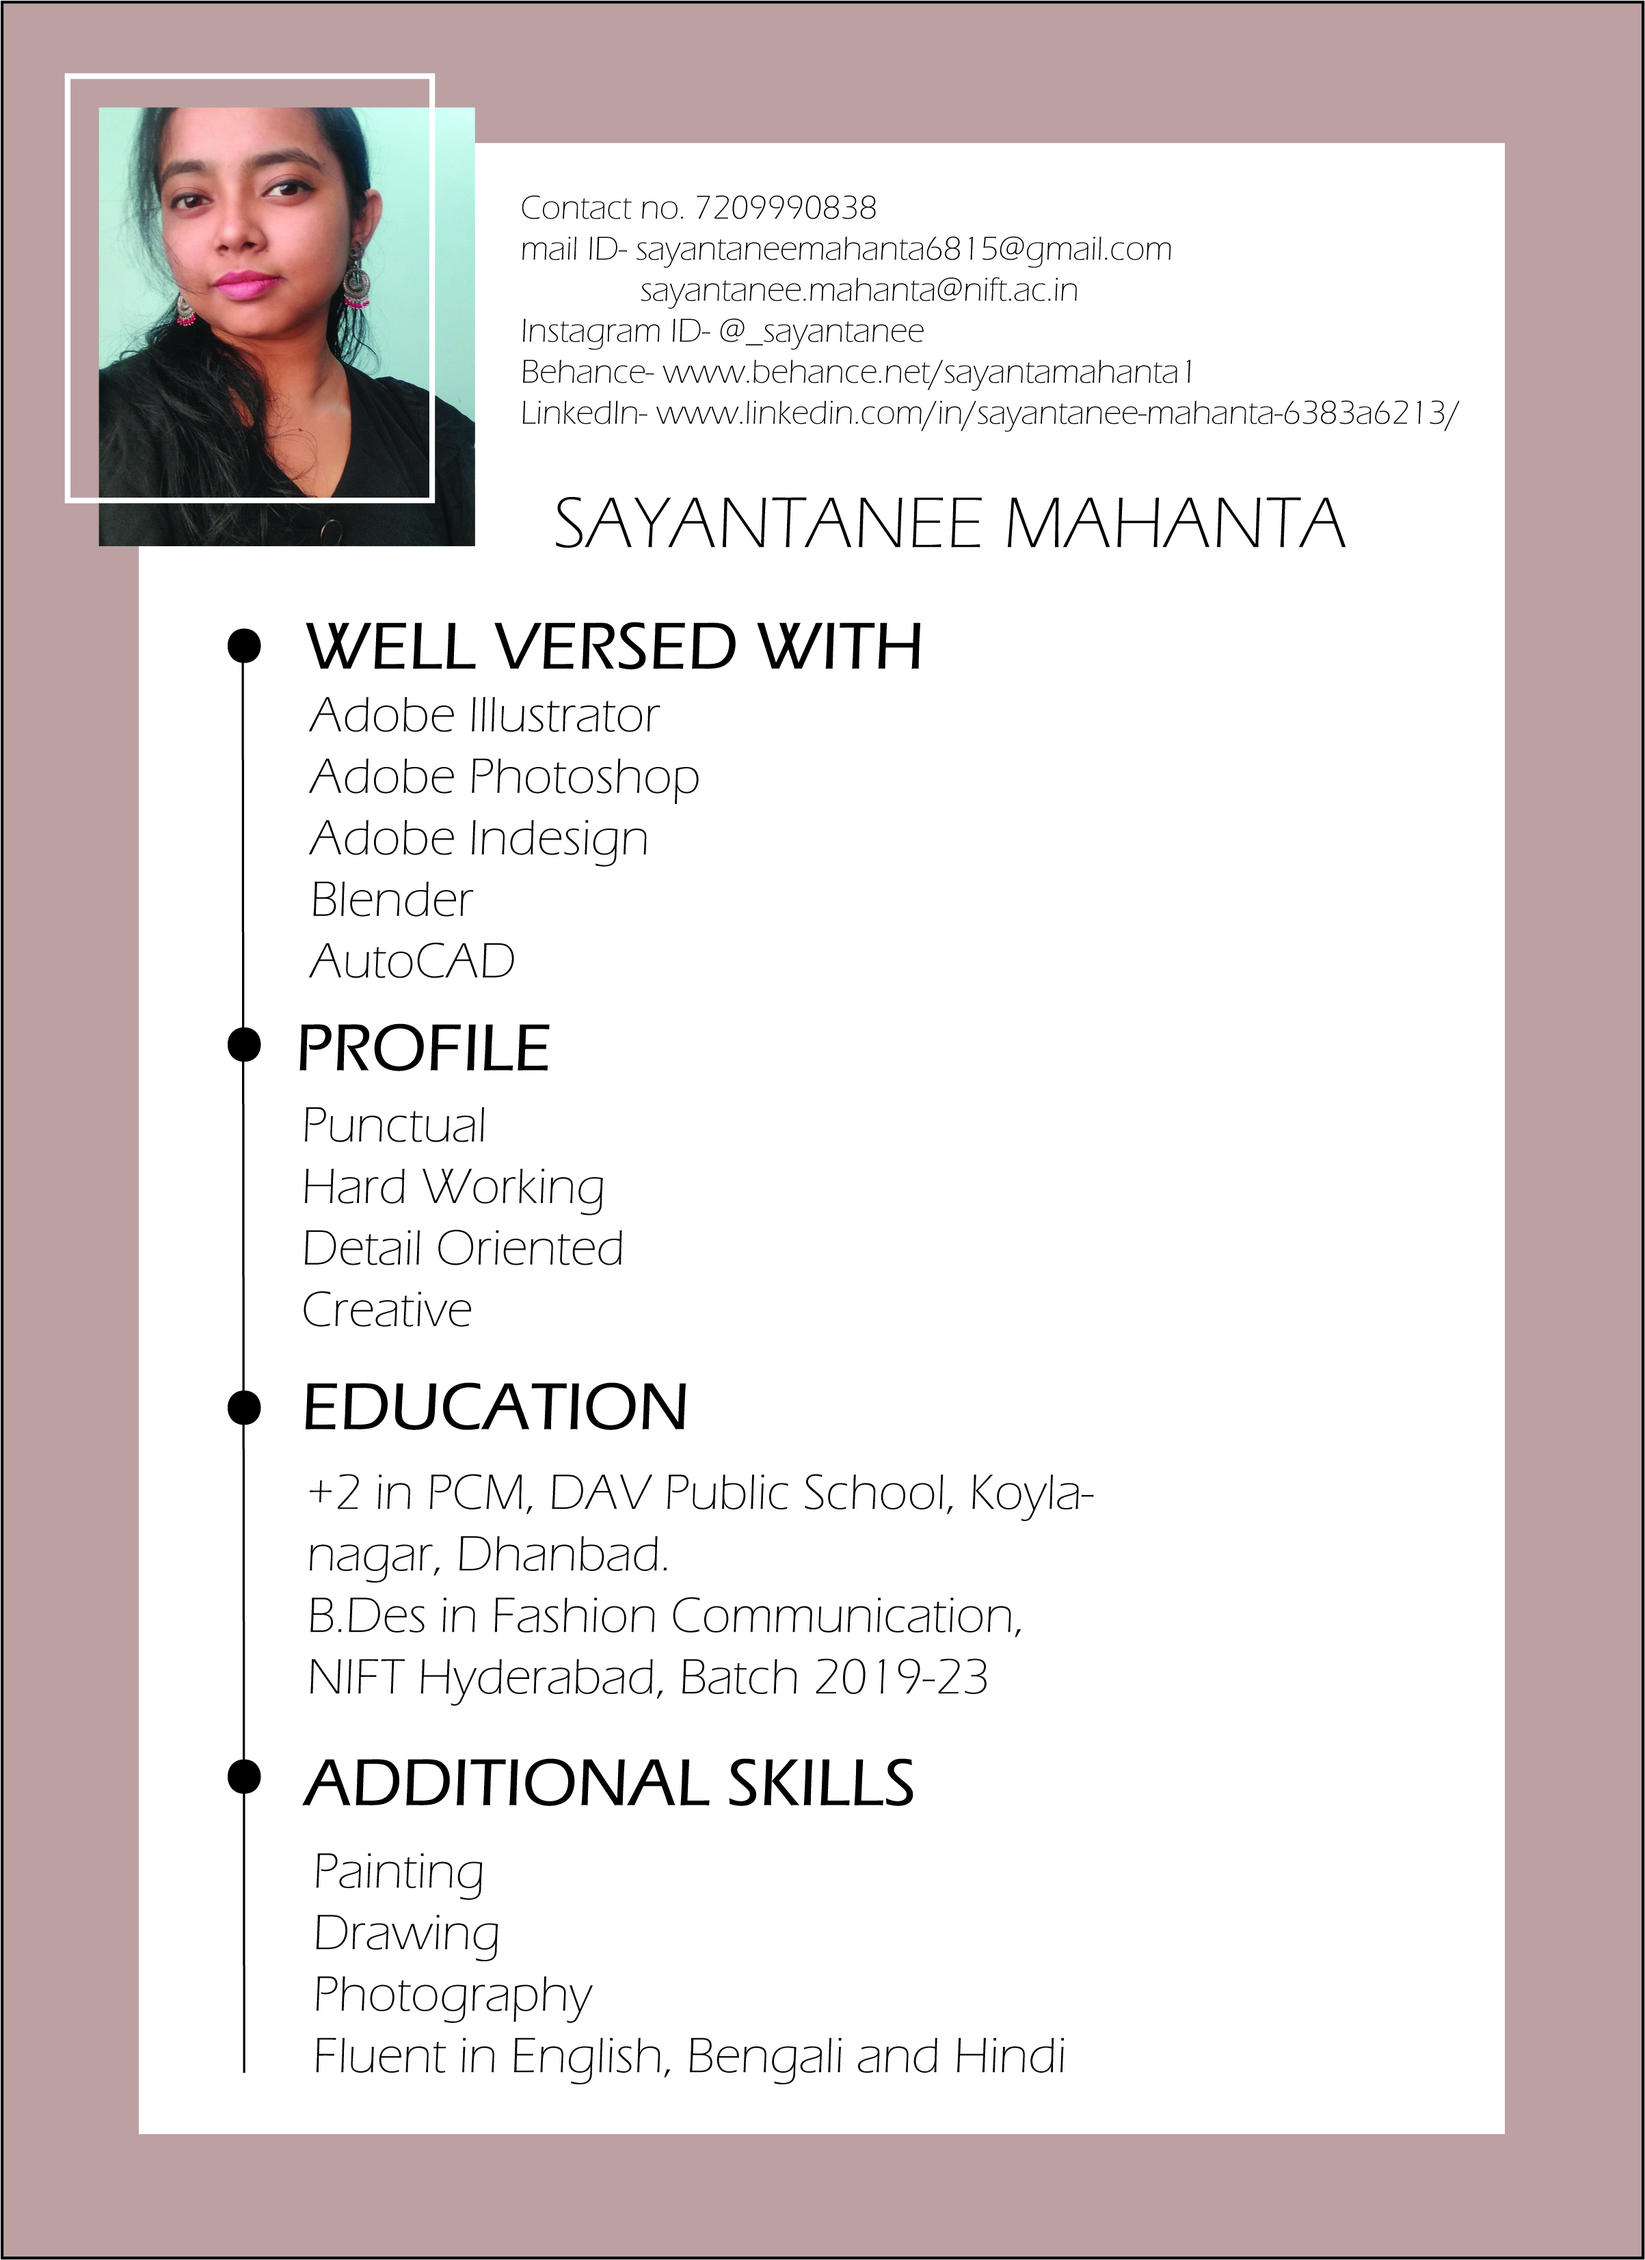
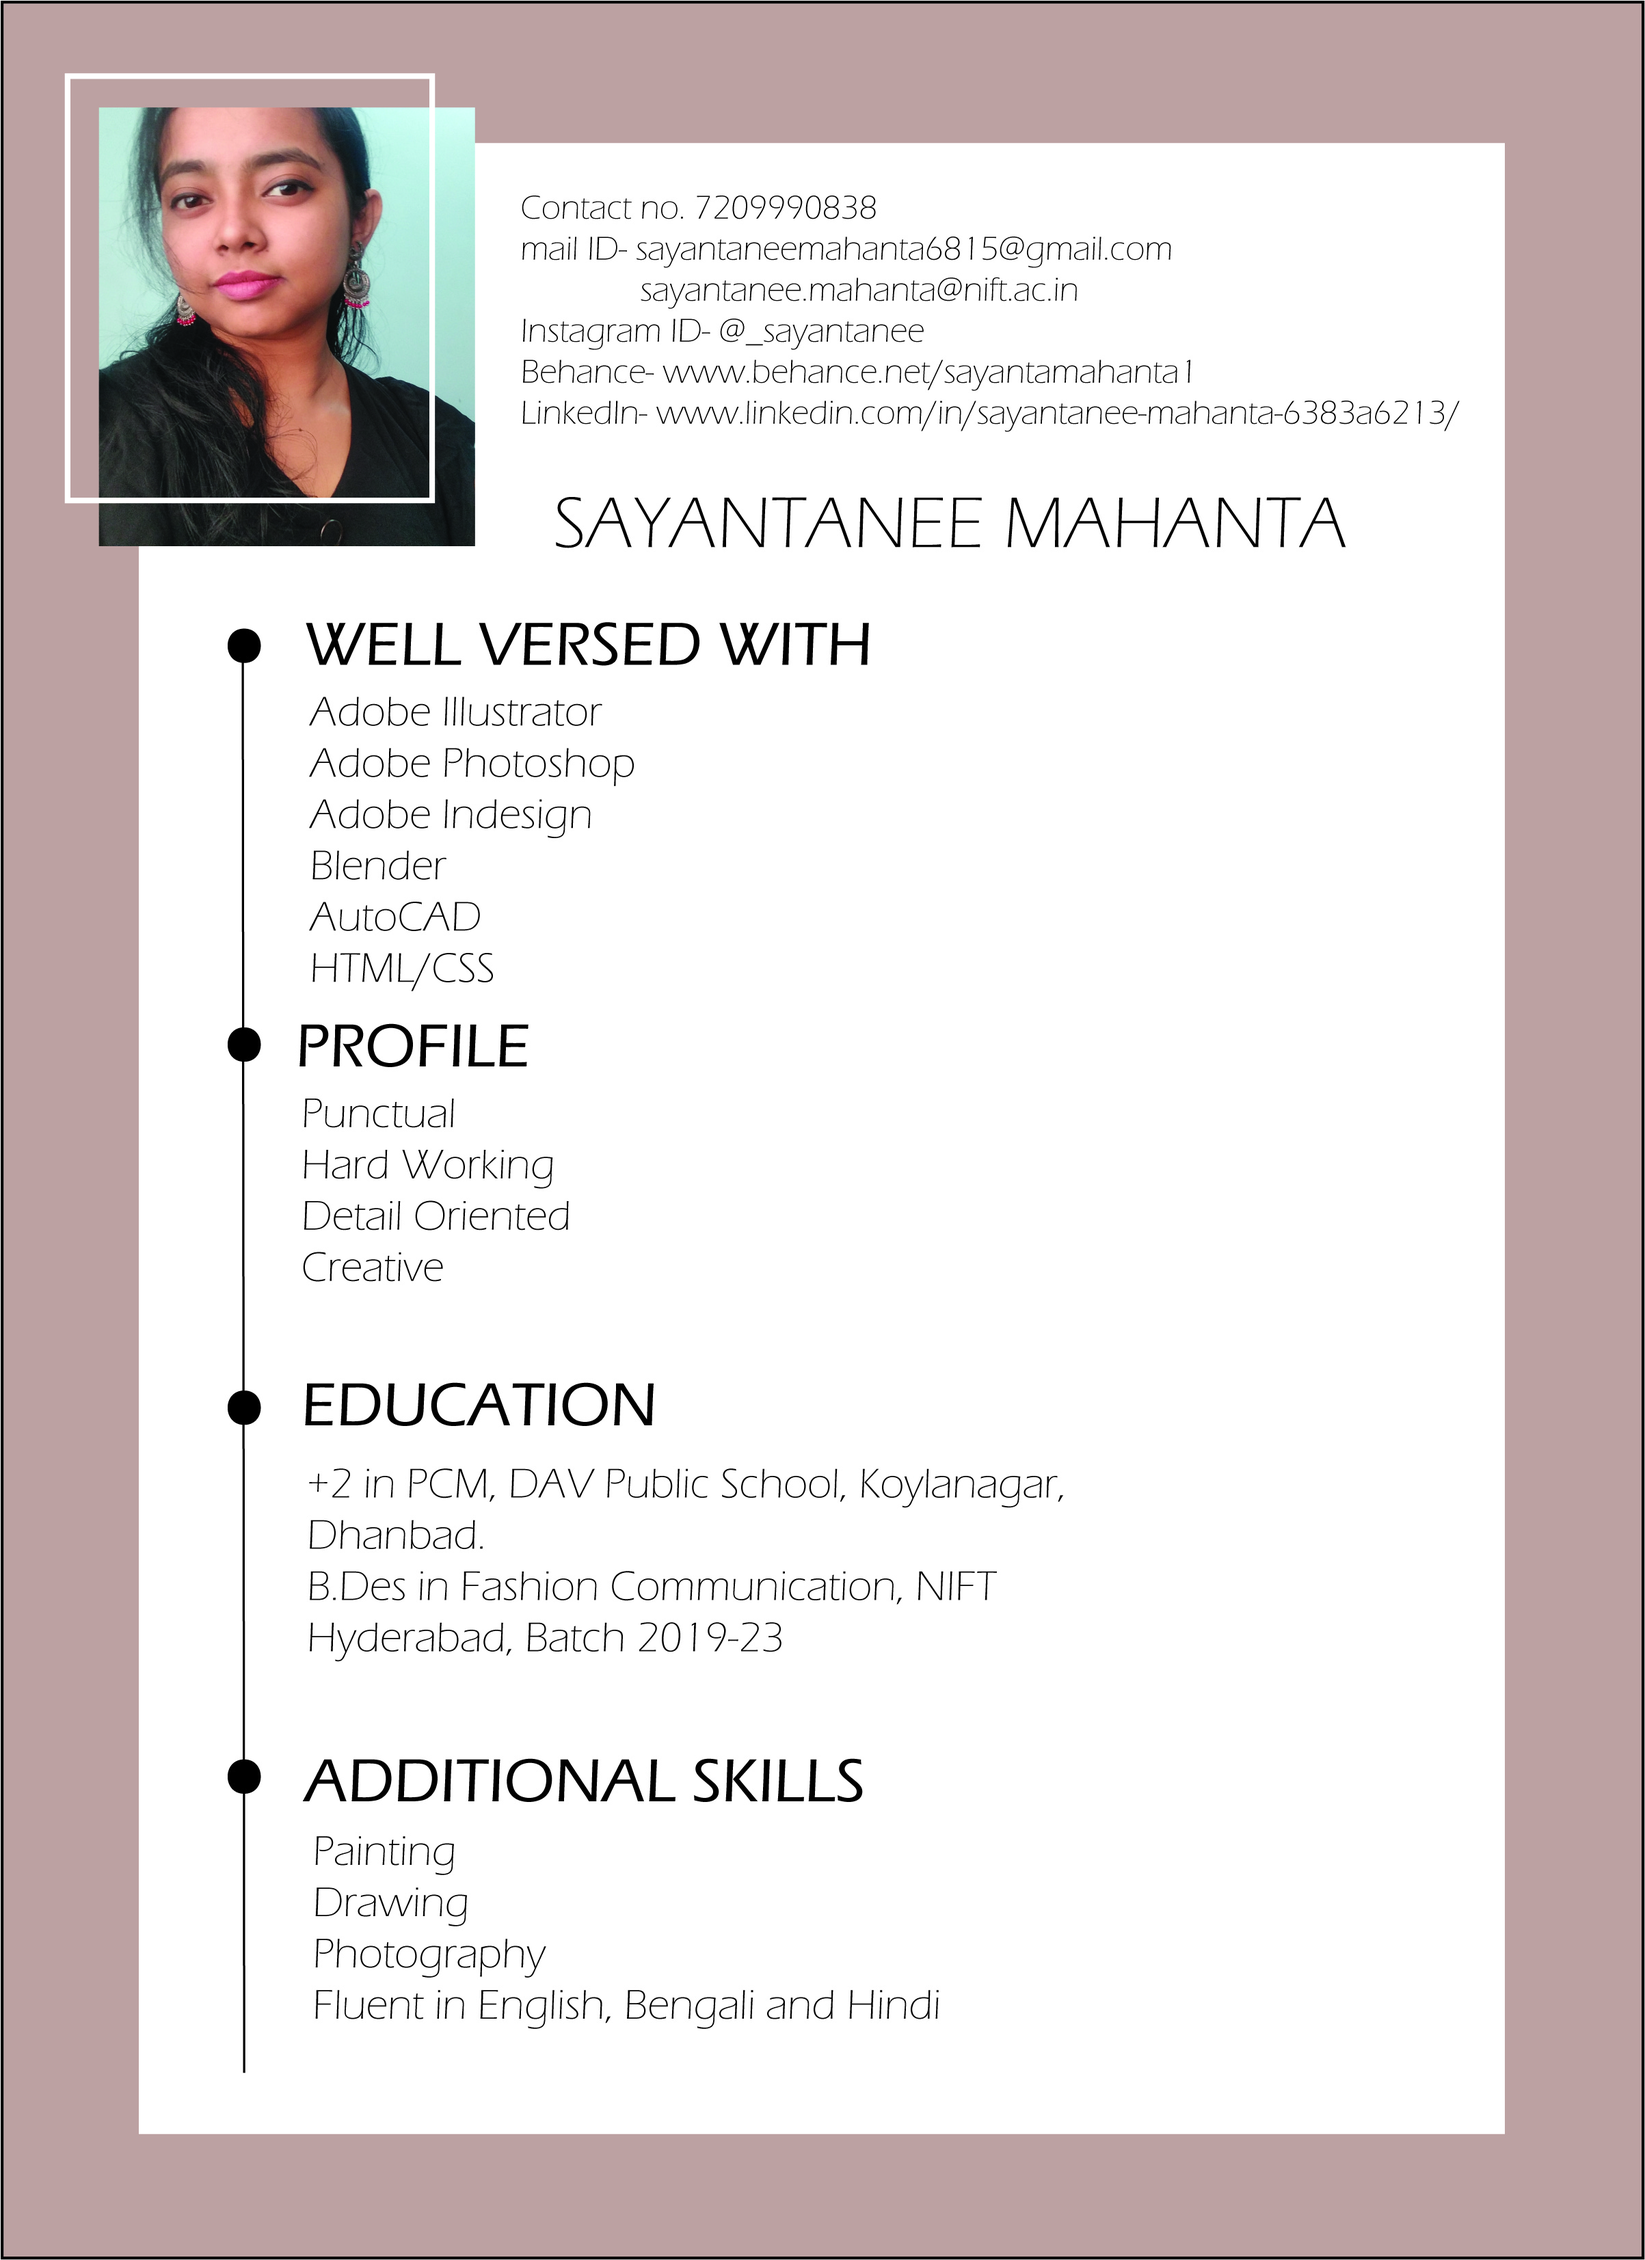
changes

Changed region(s): [[0.187, 0.2804, 0.6546, 0.7477], [0.187, 0.7789, 0.5611, 0.9347], [0.4676, 0.9035, 0.4988, 0.9347]]

diff --git a/Assignment_2/index.html b/Assignment_2/index.html
@@ -21,8 +21,33 @@
         <h1>LinkedIn- www.linkedin.com/in/sayantanee-mahanta-6383a6213/</h1>
       </div>
       <h2 id="name">SAYANTANEE MAHANTA</h2>
-      <div class="">
+      <div class="profiles">
         <img src="pngfind.com-horizontal-black-line-png-1858856.png" width="1.3px" height="400px">
+        <div class="Detail">
+          <li><h2>WELL VERSED WITH</h2>
+            <p>Adobe Illustrator</p>
+            <p>Adobe Photoshop</p>
+            <p>Adobe Indesign</p>
+            <p>Blender</p>
+            <p>AutoCAD</p>
+          </li>
+          <li><h2>PROFILE</h2>
+            <p>Punctual</p>
+            <p>Hard Working</p>
+            <p>Detail Oriented</p>
+            <p>Creative</p>
+          </li>
+          <li><h2>EDUCATION</h2>
+            <p>+2 in PCM, DAV Public School, Koylanagar, Dhanbad.</p>
+            <p>B.Des in Fashion Communication, NIFT Hyderabad, Batch 2019-23</p>
+          </li>
+          <li><h2>ADDITIONAL SKILLS</h2>
+            <p>Painting</p>
+            <p>Drawing</p>
+            <p>Photography</p>
+            <p>Fluent in English, Bengali and Hindi</p>
+          </li>
+        </div>
       </div>
     </div>
   </section>

diff --git a/Assignment_2/css/main.css b/Assignment_2/css/main.css
@@ -35,6 +35,10 @@ h2#name {
   padding-left: 100px;
   border-top: 20px
 }
-h2#name, .writeup div#contactdetails {
-  font-family: sans-serif;
+div.profiles img {
+margin: 50px 0 0 -40px;
+}
+div.profiles .Detail {
+  display: inline-block;
+  margin: 40px 0 0 10px;
 }
